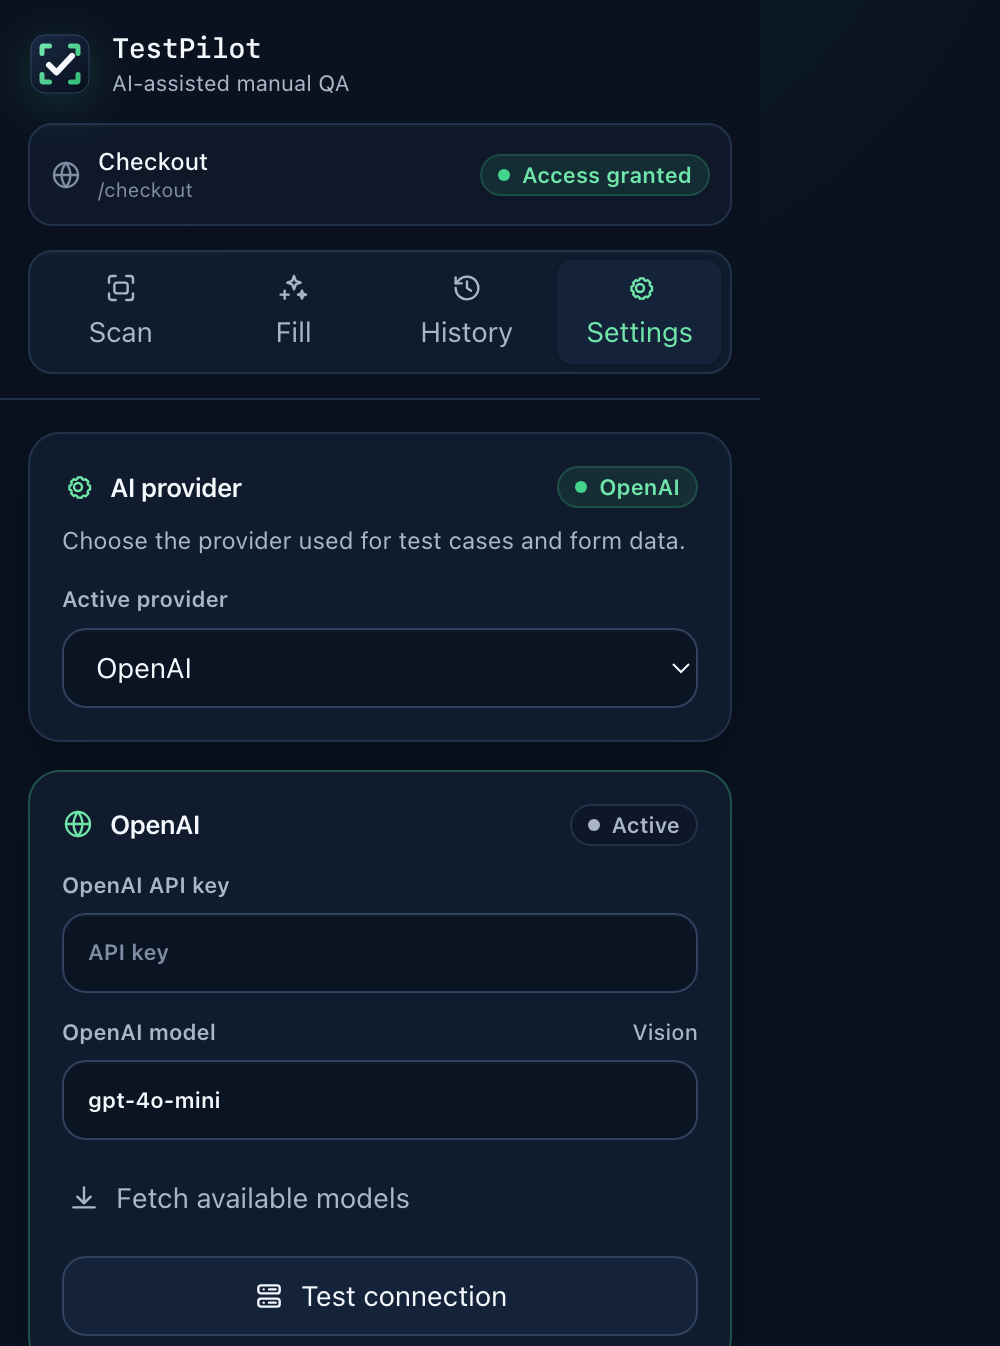
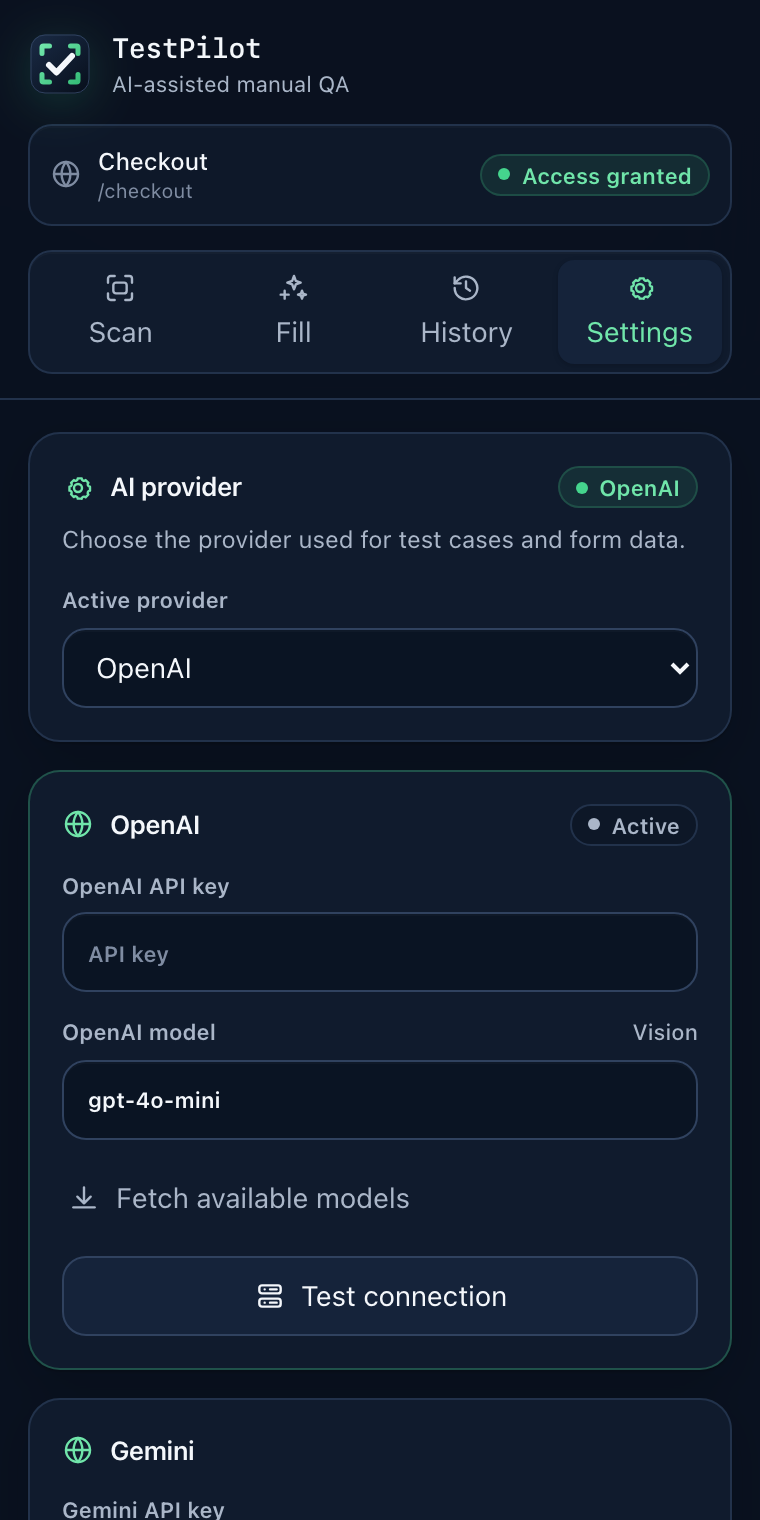
docs: address onboarding guide review

diff --git a/src/marketing/documents.test.js b/src/marketing/documents.test.js
@@ -8,6 +8,7 @@ const marketingMarkup = readFileSync('docs/index.html', 'utf8')
 const docsRoot = path.resolve('docs')
 
 const latestDownload = 'https://github.com/tuetranduy/testpilot-chrome-ext/releases/latest/download/testpilot-chrome-extension.zip'
+const latestRelease = 'https://github.com/tuetranduy/testpilot-chrome-ext/releases/latest'
 const officialCredentialLinks = {
   openai: 'https://platform.openai.com/api-keys',
   gemini: 'https://aistudio.google.com/app/apikey',
@@ -44,6 +45,9 @@ describe('onboarding documents page', () => {
     expect(page.querySelector(`a[href="${latestDownload}"]`)).not.toBeNull()
     expect(steps).toHaveLength(4)
     expect(steps[0]).toMatch(/download.*latest stable.*ZIP/i)
+    expect(steps[0]).toMatch(/published from version tags/i)
+    expect(steps[0]).toMatch(/not available.*latest release page/i)
+    expect(page.querySelector(`ol[data-install-steps] a[href="${latestRelease}"]`)).not.toBeNull()
     expect(steps[1]).toMatch(/extract.*permanent folder/i)
     expect(steps[2]).toMatch(/chrome:\/\/extensions.*Developer mode/i)
     expect(steps[3]).toMatch(/Load unpacked.*extracted folder/i)
@@ -65,6 +69,7 @@ describe('onboarding documents page', () => {
     expect(page.querySelector('[data-provider="anthropic"]')?.textContent).toMatch(/Claude \(Anthropic\) API key/i)
     expect(page.querySelector('[data-provider="local"]')?.textContent).toMatch(/Local LLM base URL/i)
     expect(page.querySelector('[data-provider="local"]')?.textContent).toContain('http://localhost:11434/v1')
+    expect(page.querySelector('[data-provider="local"]')?.textContent).toContain('This model accepts image input')
     expect(documentsMarkup).toMatch(/Settings[\s\S]*Active provider[\s\S]*Fetch available models[\s\S]*Test connection[\s\S]*Save settings/i)
   })
 
@@ -79,7 +84,10 @@ describe('onboarding documents page', () => {
     expect(figma?.textContent).toMatch(/90 days/i)
     expect(figma?.textContent).toMatch(/Figma connection/i)
     expect(figma?.textContent).toMatch(/Save settings/i)
-    expect(documentsMarkup).toMatch(/never.*(?:publish|share|commit)|(?:publish|share|commit).*never/i)
+    expect(figma?.textContent).toMatch(/inherits? your existing Figma file access/i)
+    expect(figma?.textContent).toMatch(/file_content:read.*API endpoint/i)
+    expect(figma?.textContent).not.toMatch(/limit file access|select (?:the )?(?:design )?files|choose (?:which )?files/i)
+    expect(figma?.textContent).toMatch(/(?:do not|never).*(?:screenshot|message|source file|ticket)/i)
   })
 
   test('uses real local product screenshots with useful alternatives and reserved space', () => {
@@ -109,12 +117,36 @@ describe('onboarding documents page', () => {
         expect(png.readUInt32BE(20)).toBe(height)
       }
     }
+
+    const settingsImage = images.find((image) => image.getAttribute('src') === 'assets/testpilot-settings-providers.png')
+    expect(settingsImage?.getAttribute('width')).toBe('760')
+    expect(settingsImage?.getAttribute('height')).toBe('1520')
+  })
+
+  test('keeps every mobile primary navigation link at least 44px tall', () => {
+    const documentsStyles = readFileSync('docs/styles.css', 'utf8')
+    const style = document.createElement('style')
+    style.textContent = documentsStyles
+    document.head.append(style)
+    const mobileRules = Array.from(style.sheet?.cssRules ?? [])
+      .filter((rule) => rule.type === 4 && rule.conditionText === '(max-width:560px)')
+      .flatMap((mediaRule) => Array.from(mediaRule.cssRules))
+    const headerLinkRule = mobileRules.find((rule) => rule.selectorText === '.documents-page .header-link')
+
+    expect(headerLinkRule).not.toBeUndefined()
+    expect(headerLinkRule?.style.display).toBe('inline-flex')
+    expect(headerLinkRule?.style.alignItems).toBe('center')
+    expect(headerLinkRule?.style.minHeight).toBe('44px')
+    expect(headerLinkRule?.style.minWidth).toBe('44px')
+    expect(headerLinkRule?.style.padding).not.toBe('')
+    style.remove()
   })
 
   test('contains no realistic provider or Figma secrets', () => {
     expect(documentsMarkup).not.toMatch(/\bsk-[A-Za-z0-9_-]{20,}\b/)
     expect(documentsMarkup).not.toMatch(/\bAIza[A-Za-z0-9_-]{20,}\b/)
     expect(documentsMarkup).not.toMatch(/\bsk-ant-[A-Za-z0-9_-]{20,}\b/)
-    expect(documentsMarkup).not.toMatch(/\bfigd_[A-Za-z0-9_-]{20,}\b/)
+    const figmaMarkup = parsePage(documentsMarkup).querySelector('#figma-token')?.innerHTML ?? ''
+    expect(figmaMarkup).not.toMatch(/\bfigd_[A-Za-z0-9_-]{20,}\b/)
   })
 })

diff --git a/docs/documents.html b/docs/documents.html
@@ -68,7 +68,7 @@
             <ol class="docs-steps" data-install-steps>
               <li>
                 <span class="step-number">1</span>
-                <div><strong>Download the latest stable release ZIP.</strong><p><a href="https://github.com/tuetranduy/testpilot-chrome-ext/releases/latest/download/testpilot-chrome-extension.zip">Download TestPilot for Chrome</a>. If the download does not begin, open the <a href="https://github.com/tuetranduy/testpilot-chrome-ext/releases/latest">latest release page</a>.</p></div>
+                <div><strong>Download the latest stable release ZIP.</strong><p><a href="https://github.com/tuetranduy/testpilot-chrome-ext/releases/latest/download/testpilot-chrome-extension.zip">Download TestPilot for Chrome</a>. Stable packages are published from version tags. If the ZIP is not available yet, open the <a href="https://github.com/tuetranduy/testpilot-chrome-ext/releases/latest">latest release page</a> to check the published assets.</p></div>
               </li>
               <li>
                 <span class="step-number">2</span>
@@ -109,7 +109,7 @@
 
             <figure class="product-figure figure-landscape" data-reveal>
               <div class="product-frame">
-                <img data-product-screenshot src="assets/testpilot-settings-providers.png" alt="TestPilot Settings with OpenAI selected, an empty API key field, a model field, Fetch available models, and Test connection controls." width="1000" height="1346" loading="lazy" decoding="async" />
+                <img data-product-screenshot src="assets/testpilot-settings-providers.png" alt="TestPilot Settings with OpenAI selected, an empty API key field, a model field, Fetch available models, and Test connection controls." width="760" height="1520" loading="lazy" decoding="async" />
               </div>
               <figcaption><strong>The real Settings screen.</strong> Credential fields are empty in this locally rendered product screenshot; paste your own key only in your installed extension.</figcaption>
             </figure>
@@ -151,7 +151,7 @@
                 <ol>
                   <li>Install and start a compatible server. For one documented option, see <a href="https://docs.ollama.com/api/openai-compatibility">Ollama’s OpenAI compatibility guide</a>.</li>
                   <li>Choose <strong>Local LLM</strong>, enter the served model name, and set <strong>Local LLM base URL</strong>. TestPilot defaults to <code>http://localhost:11434/v1</code>.</li>
-                  <li>Choose <strong>Test connection</strong>. For image scans, use a local model that accepts image input and enable that capability when TestPilot asks.</li>
+                  <li>For image scans, use a local vision model. If its capability is shown as unknown, select <strong>This model accepts image input</strong>, then choose <strong>Test connection</strong>.</li>
                 </ol>
               </section>
             </div>
@@ -171,7 +171,7 @@
 
             <ol class="docs-steps compact-steps">
               <li><span class="step-number">1</span><div><strong>Open Figma’s official token instructions.</strong><p>Follow the <a href="https://developers.figma.com/docs/rest-api/personal-access-tokens/">personal access token guide</a>: account menu → Settings → Security → Generate new token.</p></div></li>
-              <li><span class="step-number">2</span><div><strong>Limit the token.</strong><p>Choose an expiry of no more than <strong>90 days</strong>, select only the <code>file_content:read</code> scope, and limit file access to the designs you need.</p></div></li>
+              <li><span class="step-number">2</span><div><strong>Choose the API scope.</strong><p>Choose an expiry of no more than <strong>90 days</strong> and select only <code>file_content:read</code>. This scope limits which Figma API endpoints the token can use; the token inherits your existing Figma file access and does not grant or restrict access per file.</p></div></li>
               <li><span class="step-number">3</span><div><strong>Copy it once and store it safely.</strong><p>Figma shows a new token once. Do not put it in screenshots, messages, source files, or tickets.</p></div></li>
               <li><span class="step-number">4</span><div><strong>Save it in TestPilot.</strong><p>Open <strong>Settings</strong> → <strong>Figma connection</strong>, paste the token, and choose <strong>Save settings</strong>.</p></div></li>
             </ol>

diff --git a/docs/styles.css b/docs/styles.css
@@ -131,5 +131,5 @@ a{cursor:pointer}.button-primary,.text-link,.header-link,.site-footer a:last-chi
 }
 
 @media (max-width:560px){
-  .documents-page .site-header{height:auto;min-height:68px;padding:12px 0;gap:10px}.documents-page .header-nav{gap:9px}.documents-page .header-link{font-size:11px}.document-hero{padding:48px 0 58px}.document-hero h1{font-size:46px}.document-lede{font-size:17px}.before-card{padding:22px}.docs-layout{gap:30px;padding-bottom:62px}.docs-toc{grid-template-columns:repeat(2,minmax(0,1fr))}.guide-section{padding:20px 0 68px}.guide-heading{grid-template-columns:1fr;gap:6px;margin-bottom:27px}.guide-heading .section-number{padding:0}.guide-heading h2{font-size:36px}.guide-heading p:last-child{font-size:16px}.docs-steps>li{grid-template-columns:36px minmax(0,1fr);gap:12px;padding:21px 18px}.step-number{width:30px;height:30px}.docs-steps strong{font-size:16px}.product-figure,.figure-portrait,.figure-landscape{grid-template-columns:1fr;gap:24px;margin-top:34px;padding:20px}.product-frame{max-width:390px;margin:0 auto}.product-figure figcaption strong{font-size:21px}.security-callout{padding:18px 16px}.provider-card{padding:23px 20px}.provider-card h3{font-size:22px}.troubleshooting-list>div{grid-template-columns:1fr;gap:7px;padding:20px}.documents-page .site-footer{padding-bottom:32px}
+  .documents-page .site-header{height:auto;min-height:68px;padding:12px 0;gap:10px}.documents-page .header-nav{gap:9px}.documents-page .header-link{display:inline-flex;align-items:center;justify-content:center;min-width:44px;min-height:44px;padding:0 4px;font-size:11px;line-height:1.2}.document-hero{padding:48px 0 58px}.document-hero h1{font-size:46px}.document-lede{font-size:17px}.before-card{padding:22px}.docs-layout{gap:30px;padding-bottom:62px}.docs-toc{grid-template-columns:repeat(2,minmax(0,1fr))}.guide-section{padding:20px 0 68px}.guide-heading{grid-template-columns:1fr;gap:6px;margin-bottom:27px}.guide-heading .section-number{padding:0}.guide-heading h2{font-size:36px}.guide-heading p:last-child{font-size:16px}.docs-steps>li{grid-template-columns:36px minmax(0,1fr);gap:12px;padding:21px 18px}.step-number{width:30px;height:30px}.docs-steps strong{font-size:16px}.product-figure,.figure-portrait,.figure-landscape{grid-template-columns:1fr;gap:24px;margin-top:34px;padding:20px}.product-frame{max-width:390px;margin:0 auto}.product-figure figcaption strong{font-size:21px}.security-callout{padding:18px 16px}.provider-card{padding:23px 20px}.provider-card h3{font-size:22px}.troubleshooting-list>div{grid-template-columns:1fr;gap:7px;padding:20px}.documents-page .site-footer{padding-bottom:32px}
 }

diff --git a/.superpowers/sdd/sprint-3-release-plan/task-3-report.md b/.superpowers/sdd/sprint-3-release-plan/task-3-report.md
@@ -42,7 +42,7 @@ The focused marketing verification then passed 5 files / 15 tests, including the
 Both committed images are real renders of the current product code, not mock external dashboards:
 
[3 lines of base64/hex data omitted]
 
 Each `<img>` has descriptive product/action alt text, explicit matching `width` and `height`, `loading="lazy"`, `decoding="async"`, and responsive `width: 100%; height: auto; object-fit: contain` handling. The media contract reads each PNG header and verifies that the declared and intrinsic dimensions match.
 
@@ -106,3 +106,55 @@ npm run lint
 
 - The stable ZIP link will remain a user-visible 404 until the first GitHub latest release publishes the expected `testpilot-chrome-extension.zip` asset. This is an external release-state dependency, not a docs routing defect.
 - The OpenAI API-key page rejects unauthenticated command-line probes with 403; signed-in browser users are the intended audience for that direct credential link.
+
+## Fix round 1 — 2026-09-04
+
+### Review fixes
+
+- Corrected the Figma token explanation. `file_content:read` now clearly limits the API endpoints the token can call; the token inherits the user’s existing Figma file access and does not grant or restrict access per file.
+- Strengthened the Figma contract to require both facts, reject the earlier per-file-limiting claim, and scope the credential-handling and Figma-secret assertions to `#figma-token`.
+- Made every primary header link on viewports up to 560px an inline-flex target with `min-width: 44px`, `min-height: 44px`, centering, padding, and an explicit compact line height. Added a CSS contract for those declarations.
+- Kept the required direct stable ZIP URL, retained the exact latest-release-page fallback, and added accurate copy that stable packages are published from version tags and may not exist yet.
+- Replaced the local-model paraphrase with the exact product checkbox label: **This model accepts image input**.
+- Regenerated the Settings screenshot from the actual local product at a controlled 380 × 760 CSS viewport with 2× output, removing the prior 240px empty gutter. Updated the markup’s intrinsic dimensions and the media test to require the corrected **760 × 1520** asset.
+
+### RED / GREEN evidence
+
+RED after adding the six review contracts and before changing production copy, CSS, or media:
+
+```text
+npx vitest run src/marketing/documents.test.js
+Test Files  1 failed (1)
+Tests       5 failed | 2 passed (7)
+```
+
+Failures specifically identified the missing tagged-release explanation, inexact local-model checkbox label, false Figma file-access claim, old 1000px screenshot width, and absent mobile 44px target rules. The corrected Figma test was also run independently after tightening an initially over-broad negative expression.
+
+GREEN after applying and independently checking each fix:
+
+```text
+npx vitest run src/marketing/documents.test.js
+Test Files  1 passed (1)
+Tests       7 passed (7)
+
+npx vitest run src/marketing/documents.test.js src/marketing/layout.test.js src/marketing/media.test.js src/marketing/motion.test.ts src/marketing/release-contract.test.js
+Test Files  5 passed (5)
+Tests       16 passed (16)
+
+npm test
+Test Files  27 passed (27)
+Tests       144 passed (144)
+
+git diff --check
+exit 0
+```
+
+### Screenshot provenance and visual QA
+
[1 lines of base64/hex data omitted]
+
+The updated docs page was rendered and inspected at **1440 × 900** and **390 × 844**. Both reported `scrollWidth === innerWidth` and `scrollX === 0`. At mobile width, measured primary-link rectangles were Home **44 × 44**, Documents **69.3125 × 44**, and GitHub **56.53125 × 44** CSS pixels. Desktop hero/install and AI-provider views and mobile hero/navigation and Figma-scope views were inspected; text wrapped cleanly, the screenshot had no gutter or distortion, and the corrected Figma explanation remained readable. All started browser/server sessions were terminated, and temporary capture scripts were removed before commit.
+
+### Remaining concern
+
+The GitHub stable ZIP remains an external release-state dependency and returns 404 until an authorized maintainer publishes a version tag whose workflow uploads `testpilot-chrome-extension.zip`. No release, tag, push, or other external mutation was performed.
